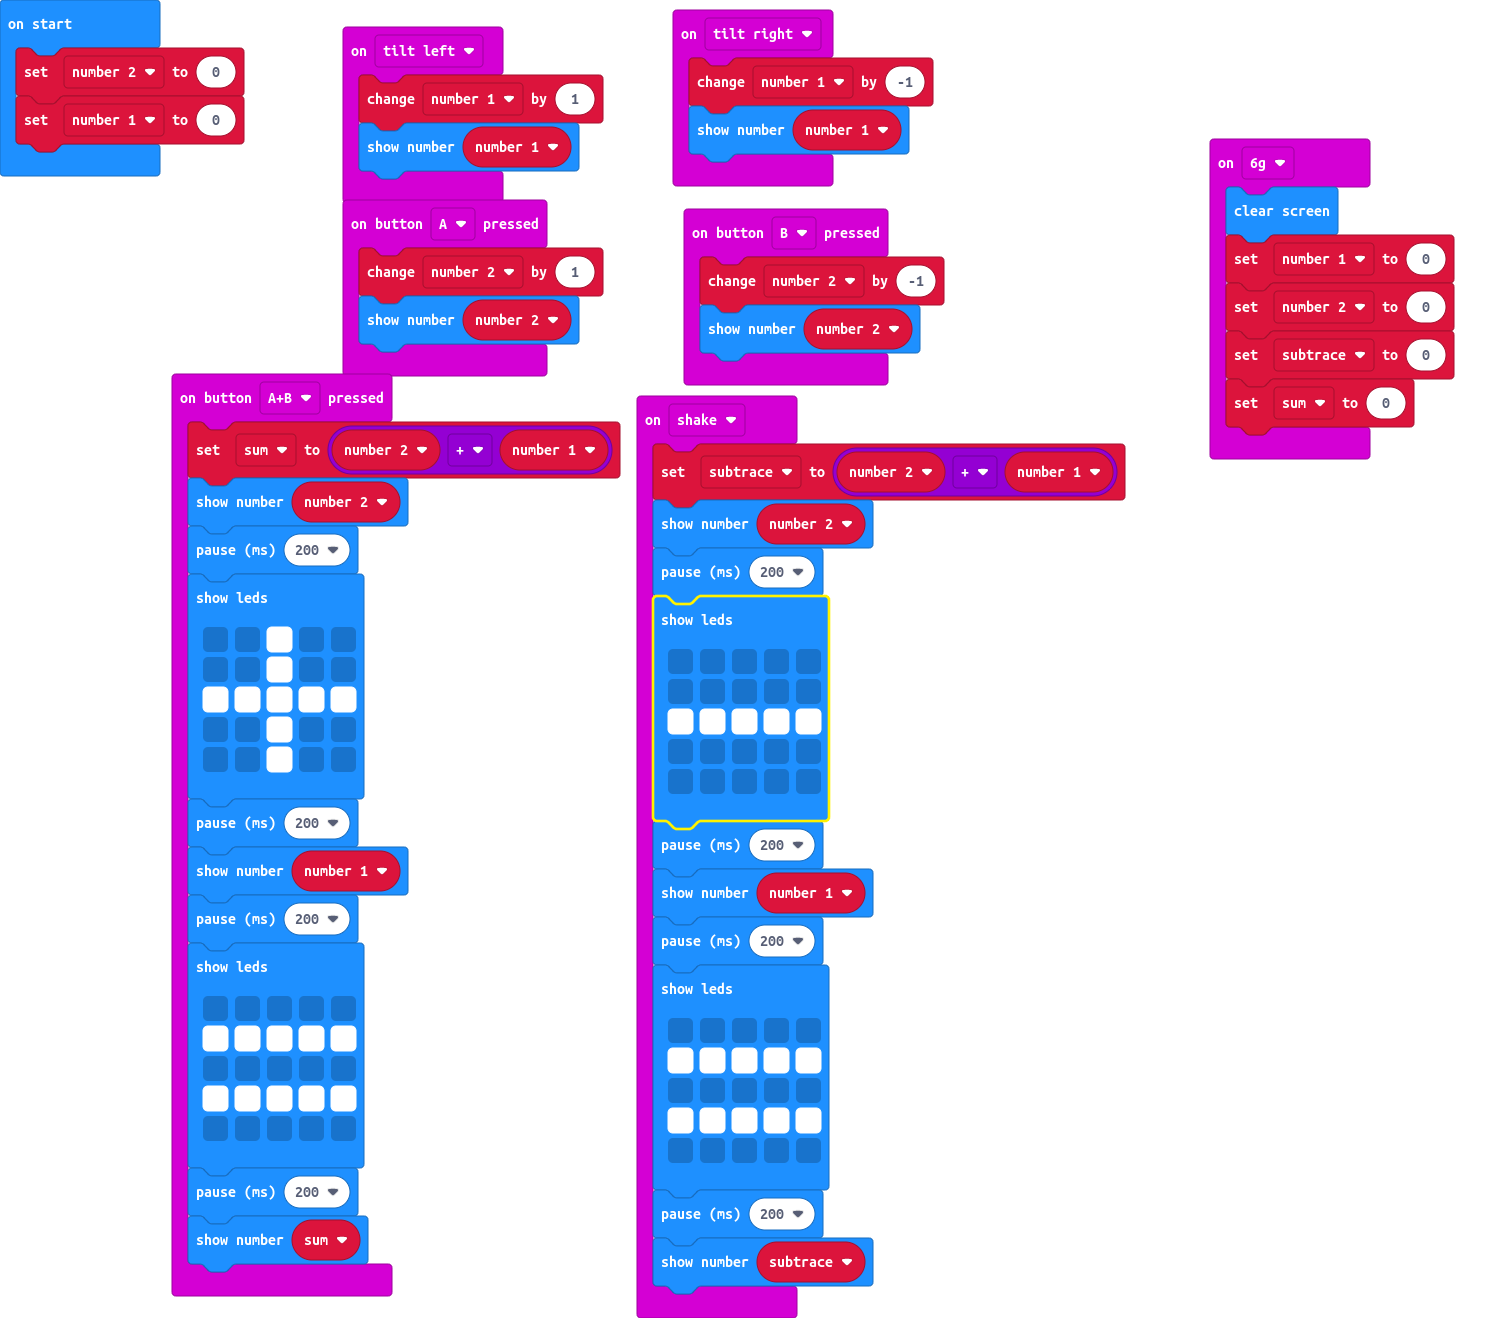
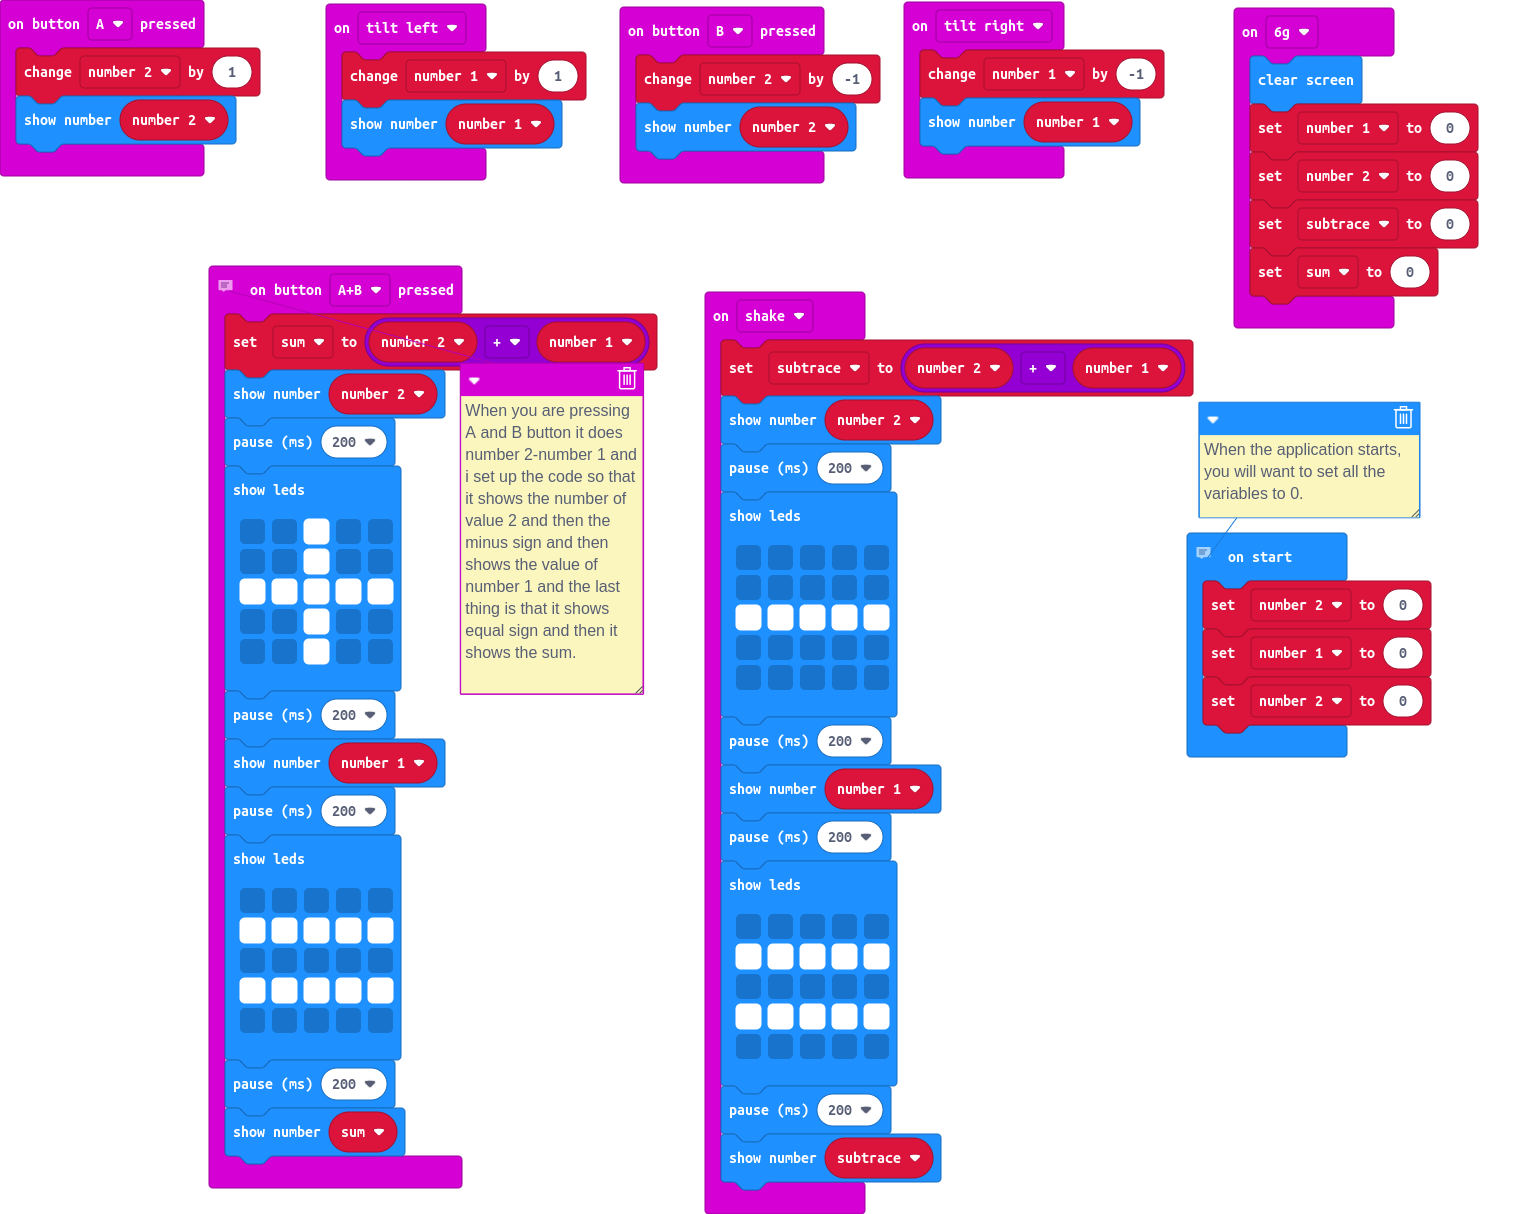
Update main.blocks, main.ts

diff --git a/main.ts b/main.ts
@@ -13,6 +13,7 @@ input.onGesture(Gesture.SixG, function () {
     subtrace = 0
     sum = 0
 })
+// When you are pressing A and B button it does number 2-number 1 and i set up the code so that it shows the number of value 2 and then the minus sign and then shows the value of number 1 and the last thing is that it shows equal sign and then it shows the sum.
 input.onButtonPressed(Button.AB, function () {
     sum = number_2 + number_1
     basic.showNumber(number_2)
@@ -69,9 +70,11 @@ input.onGesture(Gesture.TiltRight, function () {
     number_1 += -1
     basic.showNumber(number_1)
 })
+// When the application starts, you will want to set all the variables to 0.
 let sum = 0
 let subtrace = 0
 let number_1 = 0
 let number_2 = 0
 number_2 = 0
 number_1 = 0
+number_2 = 0
